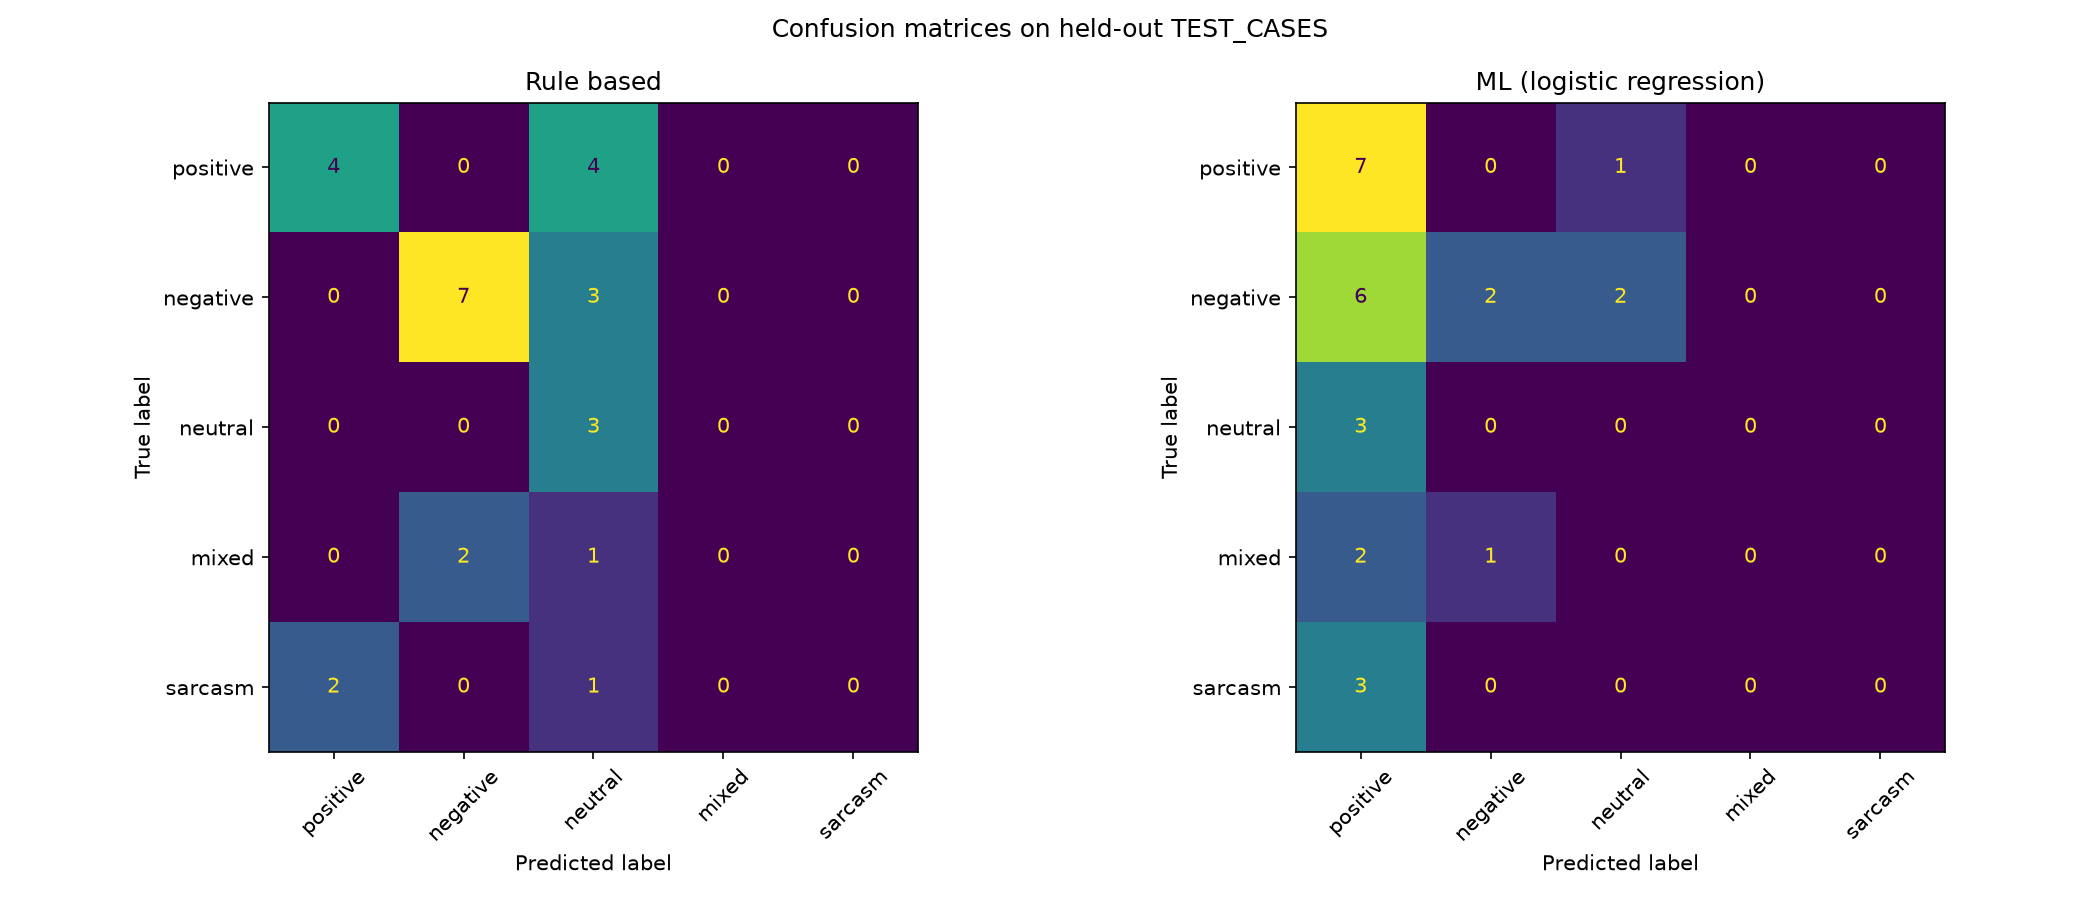
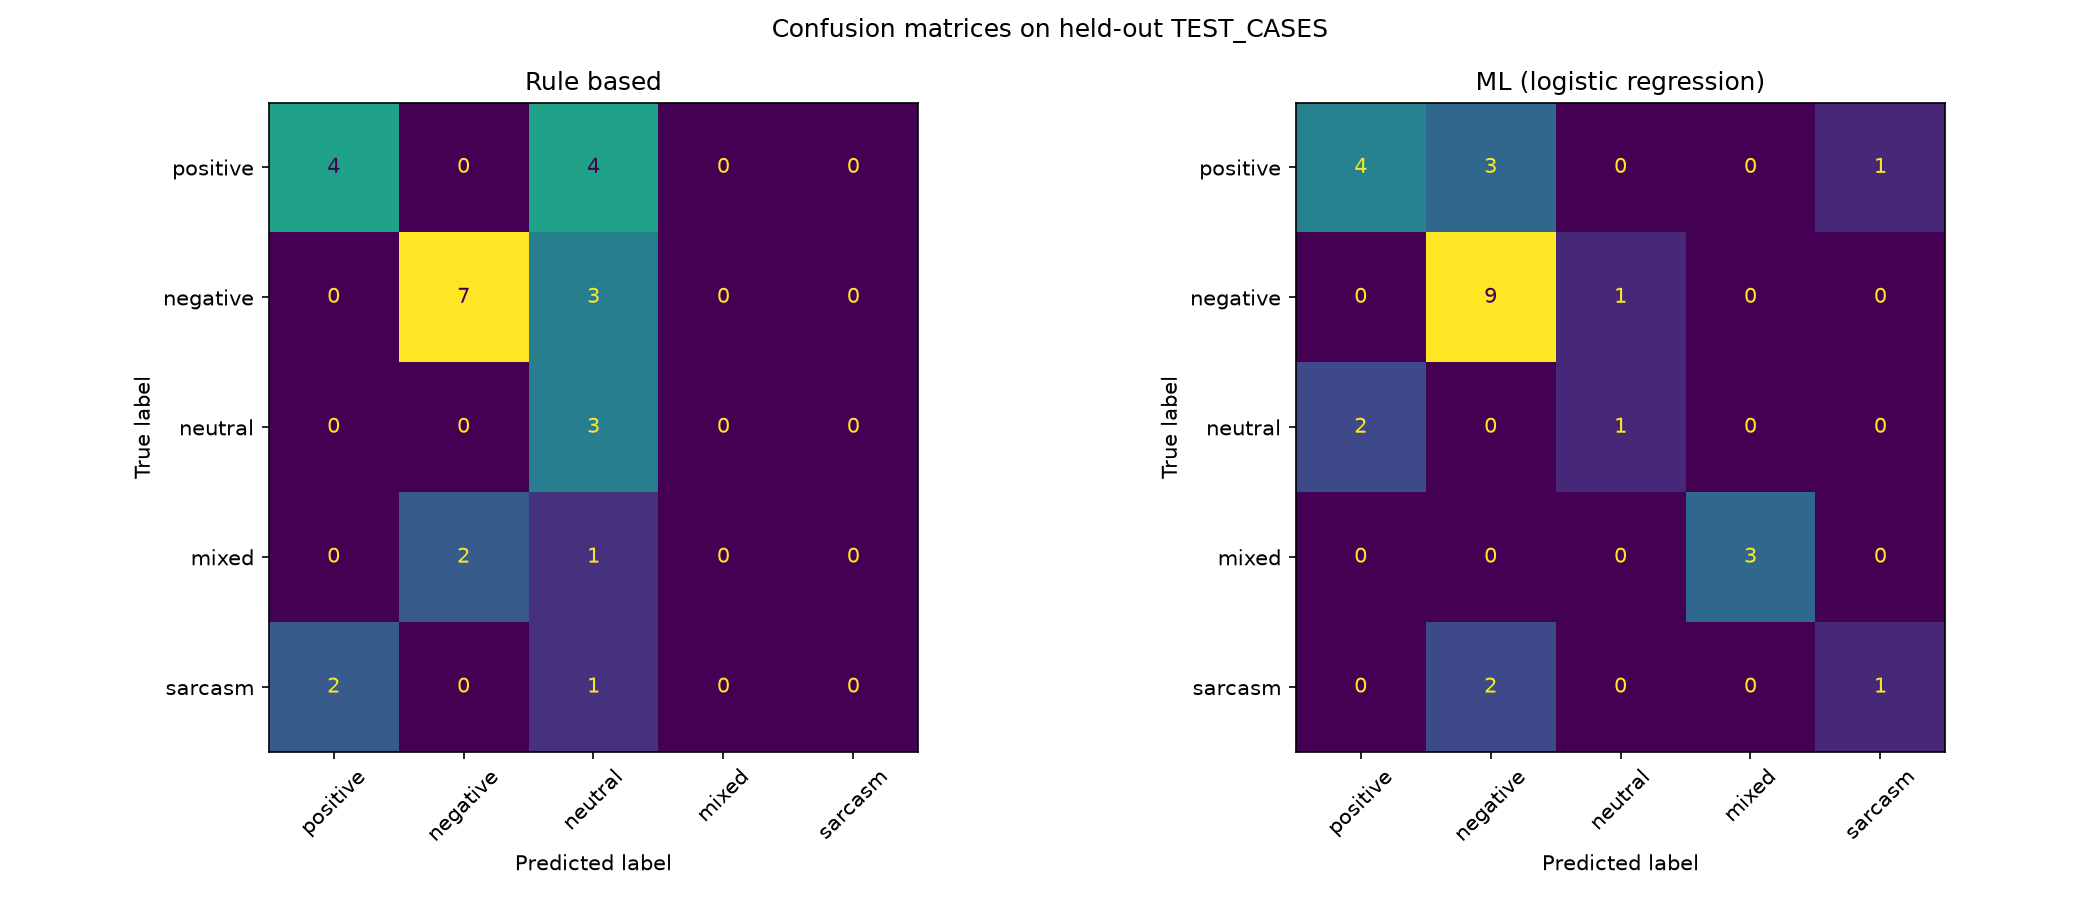
Add more sample posts: accuracy 0.33 -> 0.67

Changed region(s): [[0.619, 0.0933, 0.9286, 0.84], [0.8667, 0.0933, 0.9286, 0.28]]

diff --git a/dataset.py b/dataset.py
@@ -68,7 +68,86 @@ SAMPLE_POSTS = [
     "I did great on the exam",
     "Just feeling so-so",
     "I absolutely love getting stuck in traffic",
-    "Really feeling this one ngl"
+    "Really feeling this one ngl",
+
+    # ------------------------------------------------------------------
+    # Expanded set: clear sentiment
+    # ------------------------------------------------------------------
+    "best birthday ever, thanks everyone",
+    "my team won the championship game",
+    "the concert last night was incredible",
+    "got an A on my chemistry final",
+    "she said yes!",
+    "pizza night with the whole family was perfect",
+    "my phone died right before the interview",
+    "ugh, I failed my driving test",
+    "nothing is going right this week",
+    "I missed the bus and was late to work",
+    "the wifi went out during my presentation",
+    "my roommate ate my leftovers again",
+
+    # ------------------------------------------------------------------
+    # Expanded set: negation
+    # ------------------------------------------------------------------
+    "I do not feel good about this decision",
+    "the movie was not great honestly",
+    "not excited for monday",
+    "this is not a bad idea",
+    "not gonna lie, that was amazing",
+
+    # ------------------------------------------------------------------
+    # Expanded set: sarcasm
+    # ------------------------------------------------------------------
+    "great, my car broke down again",
+    "love it when the prof assigns homework on friday",
+    "oh wonderful, it's raining on my day off",
+    "yes, because that worked so well last time",
+    "thanks for spoiling the ending, really appreciated it",
+    "sure, I totally wanted to wait in line for two hours",
+    "oh yeah, standing in line at the dmv is my favorite hobby",
+    "fantastic, the printer is out of ink again",
+
+    # ------------------------------------------------------------------
+    # Expanded set: slang
+    # ------------------------------------------------------------------
+    "this new album slaps fr fr",
+    "that fit is fire no cap",
+    "the vibes at the party were immaculate",
+    "ngl that test cooked me",
+    "lowkey want to skip class tomorrow",
+
+    # ------------------------------------------------------------------
+    # Expanded set: emoji
+    # ------------------------------------------------------------------
+    "we won the game 🎉",
+    "exams are finally over 😌",
+    "my dog is sick 🥲",
+    "that exam tho 💀",
+    "rip my wallet, tuition is due 💸",
+
+    # ------------------------------------------------------------------
+    # Expanded set: mixed
+    # ------------------------------------------------------------------
+    "excited to graduate but sad to leave everyone",
+    "the movie had great acting but a boring plot",
+    "proud of the win but exhausted from training",
+    "I like my classes but the homework is killing me",
+    "part of me wants to go, part of me wants to stay home",
+    "the food was amazing but way too expensive",
+    "glad the semester is over but dreading finals week",
+    "new apartment is nicer but the commute is worse",
+
+    # ------------------------------------------------------------------
+    # Expanded set: neutral
+    # ------------------------------------------------------------------
+    "the library closes at nine",
+    "I have two classes on tuesdays",
+    "the grocery store is on fifth street",
+    "my appointment got moved to thursday",
+    "the bus comes every fifteen minutes",
+    "the exam covers chapters four through six",
+    "my sister lives in chicago",
+    "class registration opens next week",
 ]
 
 # Human labels for each post above.
@@ -89,12 +168,77 @@ TRUE_LABELS = [
     "positive",  # "I did great on the exam"
     "mixed",     # "Just feeling so-so"
     "sarcasm",   # "I absolutely love getting stuck in traffic"
-    "positive",   # "Really feeling this one ngl"
+    "positive",  # "Really feeling this one ngl"
+
+    # Expanded set: clear sentiment
+    "positive",  # "best birthday ever, thanks everyone"
+    "positive",  # "my team won the championship game"
+    "positive",  # "the concert last night was incredible"
+    "positive",  # "got an A on my chemistry final"
+    "positive",  # "she said yes!"
+    "positive",  # "pizza night with the whole family was perfect"
+    "negative",  # "my phone died right before the interview"
+    "negative",  # "ugh, I failed my driving test"
+    "negative",  # "nothing is going right this week"
+    "negative",  # "I missed the bus and was late to work"
+    "negative",  # "the wifi went out during my presentation"
+    "negative",  # "my roommate ate my leftovers again"
+
+    # Expanded set: negation
+    "negative",  # "I do not feel good about this decision"
+    "negative",  # "the movie was not great honestly"
+    "negative",  # "not excited for monday"
+    "positive",  # "this is not a bad idea"
+    "positive",  # "not gonna lie, that was amazing"
+
+    # Expanded set: sarcasm
+    "sarcasm",   # "great, my car broke down again"
+    "sarcasm",   # "love it when the prof assigns homework on friday"
+    "sarcasm",   # "oh wonderful, it's raining on my day off"
+    "sarcasm",   # "yes, because that worked so well last time"
+    "sarcasm",   # "thanks for spoiling the ending, really appreciated it"
+    "sarcasm",   # "sure, I totally wanted to wait in line for two hours"
+    "sarcasm",   # "oh yeah, standing in line at the dmv is my favorite hobby"
+    "sarcasm",   # "fantastic, the printer is out of ink again"
+
+    # Expanded set: slang
+    "positive",  # "this new album slaps fr fr"
+    "positive",  # "that fit is fire no cap"
+    "positive",  # "the vibes at the party were immaculate"
+    "negative",  # "ngl that test cooked me"
+    "negative",  # "lowkey want to skip class tomorrow"
+
+    # Expanded set: emoji
+    "positive",  # "we won the game 🎉"
+    "positive",  # "exams are finally over 😌"
+    "negative",  # "my dog is sick 🥲"
+    "negative",  # "that exam tho 💀"
+    "negative",  # "rip my wallet, tuition is due 💸"
+
+    # Expanded set: mixed
+    "mixed",     # "excited to graduate but sad to leave everyone"
+    "mixed",     # "the movie had great acting but a boring plot"
+    "mixed",     # "proud of the win but exhausted from training"
+    "mixed",     # "I like my classes but the homework is killing me"
+    "mixed",     # "part of me wants to go, part of me wants to stay home"
+    "mixed",     # "the food was amazing but way too expensive"
+    "mixed",     # "glad the semester is over but dreading finals week"
+    "mixed",     # "new apartment is nicer but the commute is worse"
+
+    # Expanded set: neutral
+    "neutral",   # "the library closes at nine"
+    "neutral",   # "I have two classes on tuesdays"
+    "neutral",   # "the grocery store is on fifth street"
+    "neutral",   # "my appointment got moved to thursday"
+    "neutral",   # "the bus comes every fifteen minutes"
+    "neutral",   # "the exam covers chapters four through six"
+    "neutral",   # "my sister lives in chicago"
+    "neutral",   # "class registration opens next week"
 ]
 
-# TODO: Add 5-10 more posts and labels.
+# The starter list has been expanded beyond the original 12 posts.
+# If you add more posts and labels, keep these requirements in mind:
 #
-# Requirements:
 #   - For every new post you add to SAMPLE_POSTS, you must add one
 #     matching label to TRUE_LABELS.
 #   - SAMPLE_POSTS and TRUE_LABELS must always have the same length.
